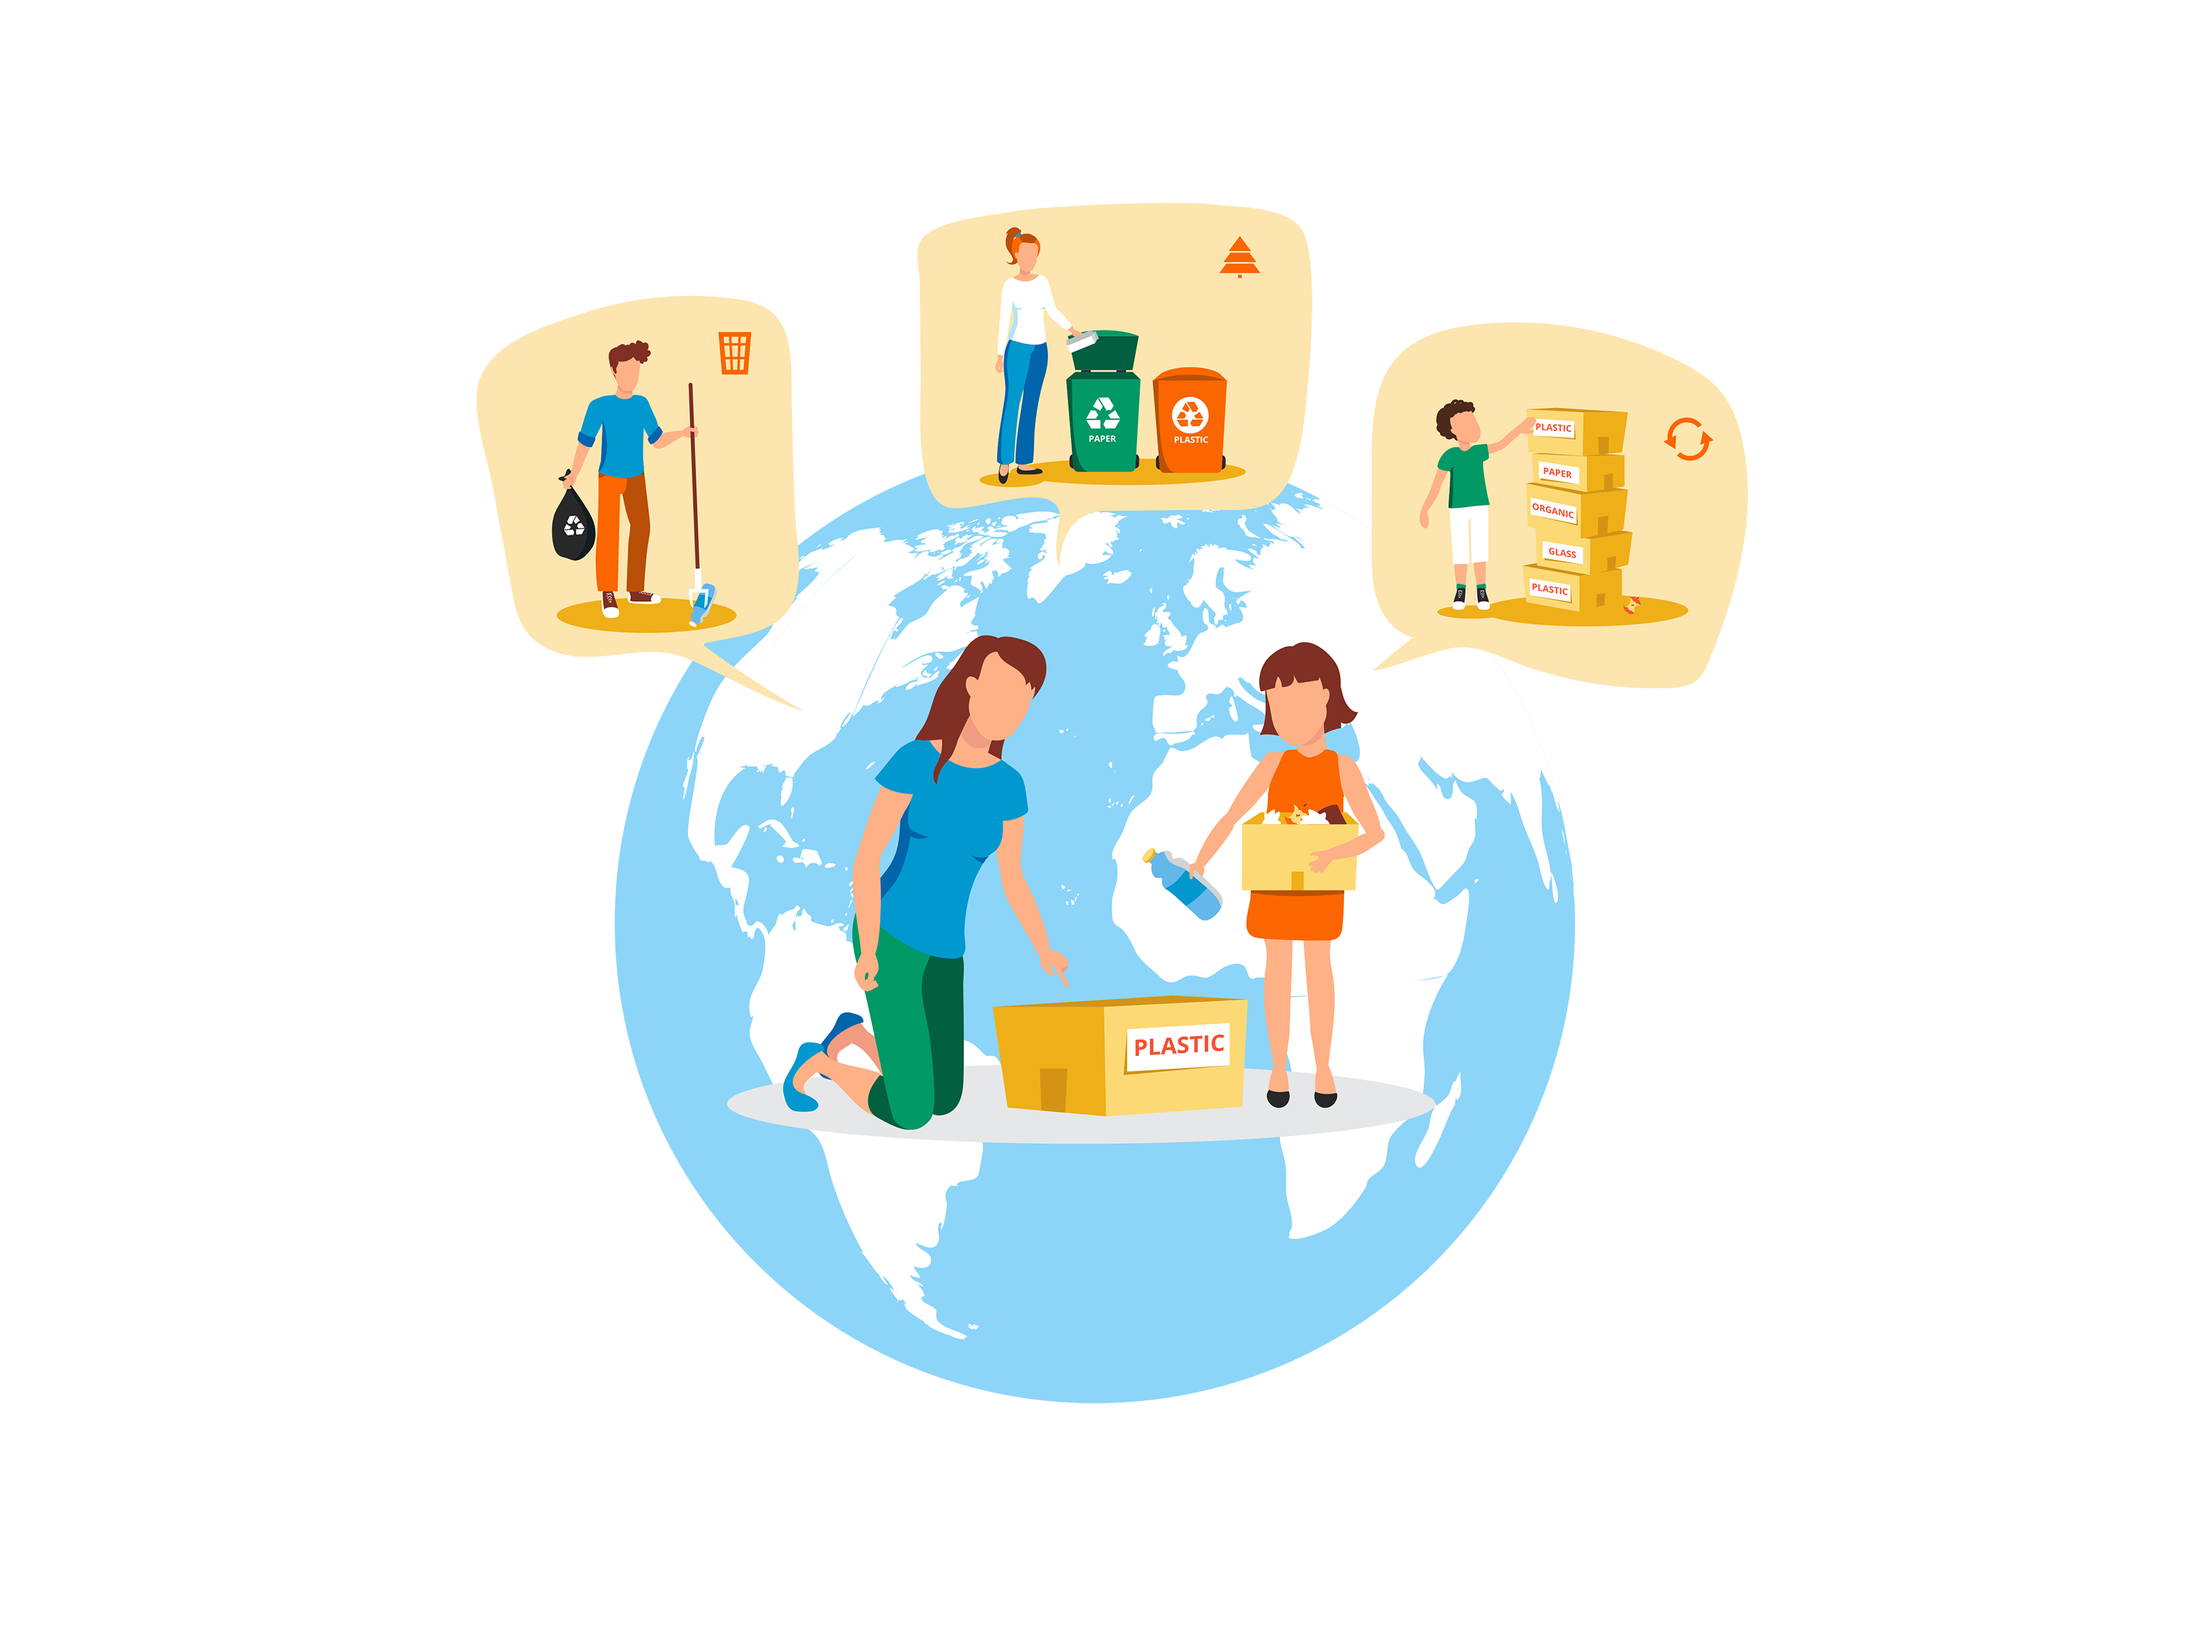
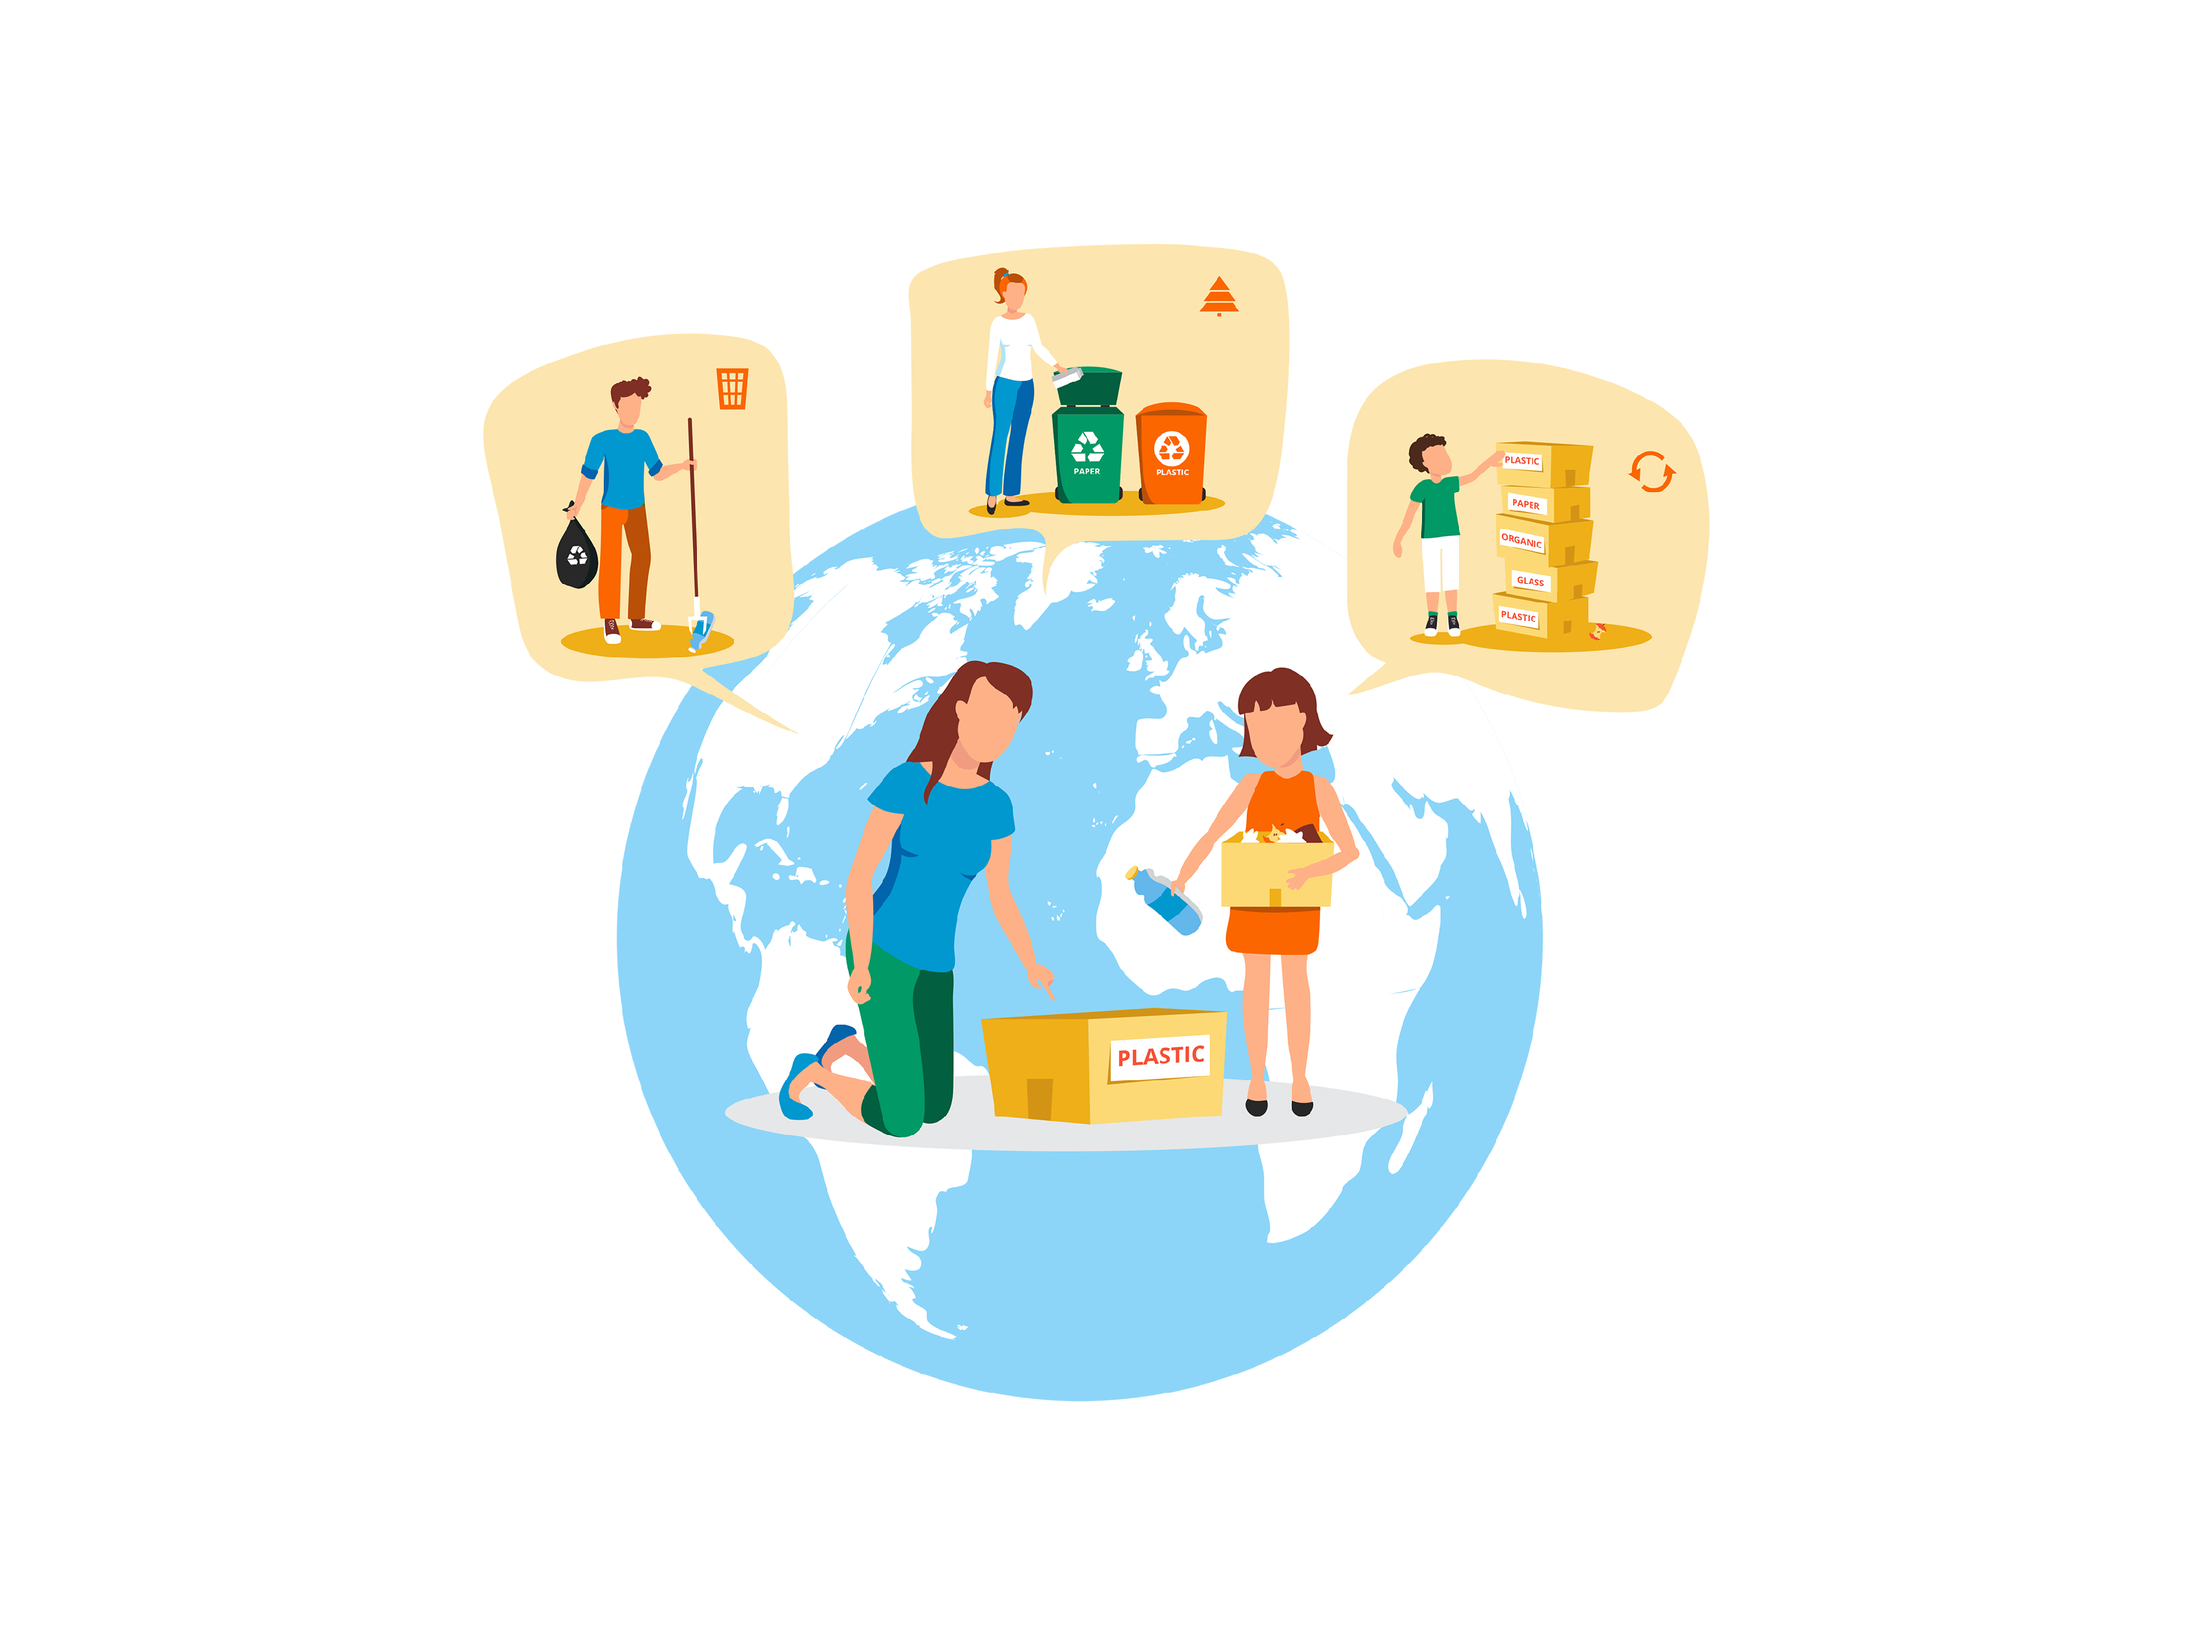
micro

Changed region(s): [[0.2188, 0.125, 0.8125, 0.8125], [0.5938, 0.75, 0.6562, 0.8125], [0.5625, 0.8125, 0.5938, 0.8438]]

diff --git a/components/main.php b/components/main.php
@@ -1,24 +1,28 @@
-<section class="section">
-    <div class="container">
-        <div class="column is-6 is-hidden-touch" style="z-index: 1; position: absolute;">
-            <p class="title"><span style="font-size: 3.5rem"><?php echo $lang['herotitle']; ?></span></p>
-            <hr class="primary">
-            <p class="subtitle is-4"><i>"Think globally, act locally"</i></p>
-            <p class="subtitle is-5 mx-6 has-text-right"><strong>David Brower</strong></p>
-        </div>
+<section class="hero is-medium" style="background: rgb(255,255,255);
+background: linear-gradient(180deg, rgba(255,255,255,1) 0%, rgba(223,233,243,1) 100%);">
+    <div class="hero-body">
+        <div class="container ">
+            <div class="column is-6 is-hidden-touch" style="z-index: 1; position: absolute;">
+                <p class="title"><span style="font-size: 3.5rem"><?php echo $lang['herotitle']; ?></span></p>
+                <hr class="primary">
+                <p class="subtitle is-4"><i>"Think globally, act locally"</i></p>
+                <p class="subtitle is-5 mx-6 has-text-right"><strong>David Brower</strong></p>
+            </div>
 
-        <div class="column is-12 is-offset-4 is-hidden-touch">
-            <figure class="image">
-                <img alt="home-page-banner-3d-figure" src="images/banner.png">
-            </figure>
-        </div>
+            <div class="column is-12 is-offset-4 is-hidden-touch">
+                <figure class="image">
+                    <img alt="home-page-banner-3d-figure" src="images/banner.png" style="margin-top: -140px;">
+                </figure>
+            </div>
 
-        <div class="column has-text-centered is-hidden-desktop">
-            <p class="title">Create modern, practical one-page site for just about anything.</p>
-            <p class="subtitle is-5"><i>"Think global, act local"</i></p>
-            <figure class="image">
-                <img alt="home-page-banner-3d-figure" src="images/banner.png">
-            </figure>
+            <div class="column has-text-centered is-hidden-desktop">
+                <p class="title">Create modern, practical one-page site for just about anything.</p>
+                <p class="subtitle is-5"><i>"Think global, act local"</i></p>
+                <figure class="image">
+                    <img alt="home-page-banner-3d-figure" src="images/banner.png">
+                </figure>
+            </div>
+
         </div>
     </div>
 </section>

diff --git a/components/header.php b/components/header.php
@@ -59,7 +59,7 @@
                                 ?>
                                     <div class="navbar-item has-dropdown is-hoverable">
                                         <a class="navbar-link" role="presentation"><?php echo $lang['account']; ?></a>
-                                        <div class="navbar-dropdown"><a class="navbar-item" href=""><?php echo $lang['profile']; ?></a><a class="navbar-item" href=""><?php echo $lang['events']; ?></a>
+                                        <div class="navbar-dropdown"><a class="navbar-item" href="profile.php"><?php echo $lang['profile']; ?></a><a class="navbar-item" href=""><?php echo $lang['events']; ?></a>
                                             <hr class="navbar-divider">
                                             <a class="navbar-item" href="logout.php"><?php echo $lang['logout']; ?></a>
                                         </div>

diff --git a/components/footer.php b/components/footer.php
@@ -3,6 +3,7 @@
 
 <script src="js/modal-fx.min.js"></script>
 <script src="https://code.jquery.com/jquery-3.5.1.js" integrity="sha256-QWo7LDvxbWT2tbbQ97B53yJnYU3WhH/C8ycbRAkjPDc=" crossorigin="anonymous"></script>
+
 <script>
     document.addEventListener('DOMContentLoaded', () => {
         const $navbarBurgers = Array.prototype.slice.call(document.querySelectorAll('.navbar-burger'), 0);
@@ -38,7 +39,10 @@
 <script>
     var lang;
     function ChangeLang(lang) {
-        $.post( "index.php", { lang: lang})
+        var lang;
+        $.post("index.php", {
+            lang: lang
+        })
     };
 </script>
 

diff --git a/login.php b/login.php
@@ -33,7 +33,7 @@ if ($_SERVER["REQUEST_METHOD"] == "POST") {
                             $_SESSION["loggedin"] = true;
                             $_SESSION["id"] = $id;
                             $_SESSION["username"] = $username;
-                            header("location: welcome.php");
+                            header("location: profile.php");
                         } else {
                             $password_err = $lang['password_err'];
                         }

diff --git a/register.php b/register.php
@@ -49,7 +49,7 @@ if ($_SERVER["REQUEST_METHOD"] == "POST") {
                 $_SESSION["loggedin"] = true;
                 $_SESSION["id"] = $id;
                 $_SESSION["username"] = $username;
-                header("location: welcome.php");
+                header("location: profile.php");
             } else {
                 echo $lang['smth_wrong'];
             }

diff --git a/index.php b/index.php
@@ -1,5 +1,6 @@
 <?php
 session_start();
+
 if (!isset($_SESSION["loggedin"]) || $_SESSION["loggedin"] !== true) {
     $logged = false;
 } else {
